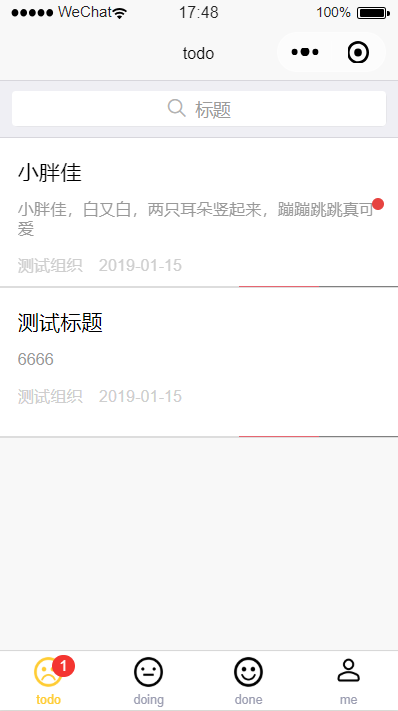
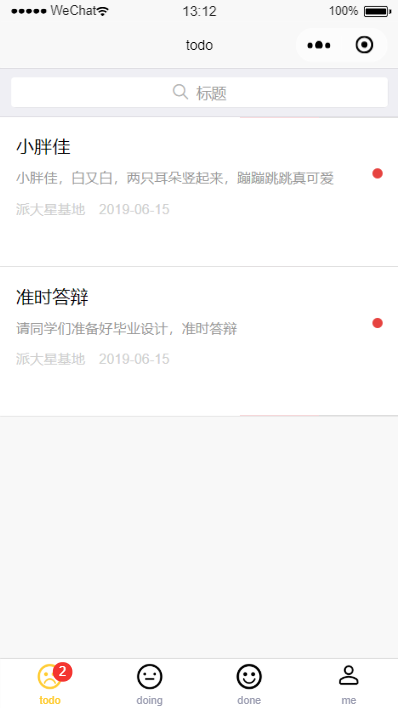
修改贴图

diff --git a/README.md b/README.md
@@ -5,8 +5,8 @@
 
 ![个人页面](https://github.com/pibigstar/wx-todo/blob/master/screenshot/me.png)
 ![todo列表](https://github.com/pibigstar/wx-todo/blob/master/screenshot/todo.png)
-![todo列表](https://github.com/pibigstar/wx-todo/blob/master/screenshot/todo2.png)
-![todo列表](https://github.com/pibigstar/wx-todo/blob/master/screenshot/task.png)
+![左滑修改](https://github.com/pibigstar/wx-todo/blob/master/screenshot/todo2.png)
+![任务总览](https://github.com/pibigstar/wx-todo/blob/master/screenshot/task.png)
 
 ## API接口封装
 
